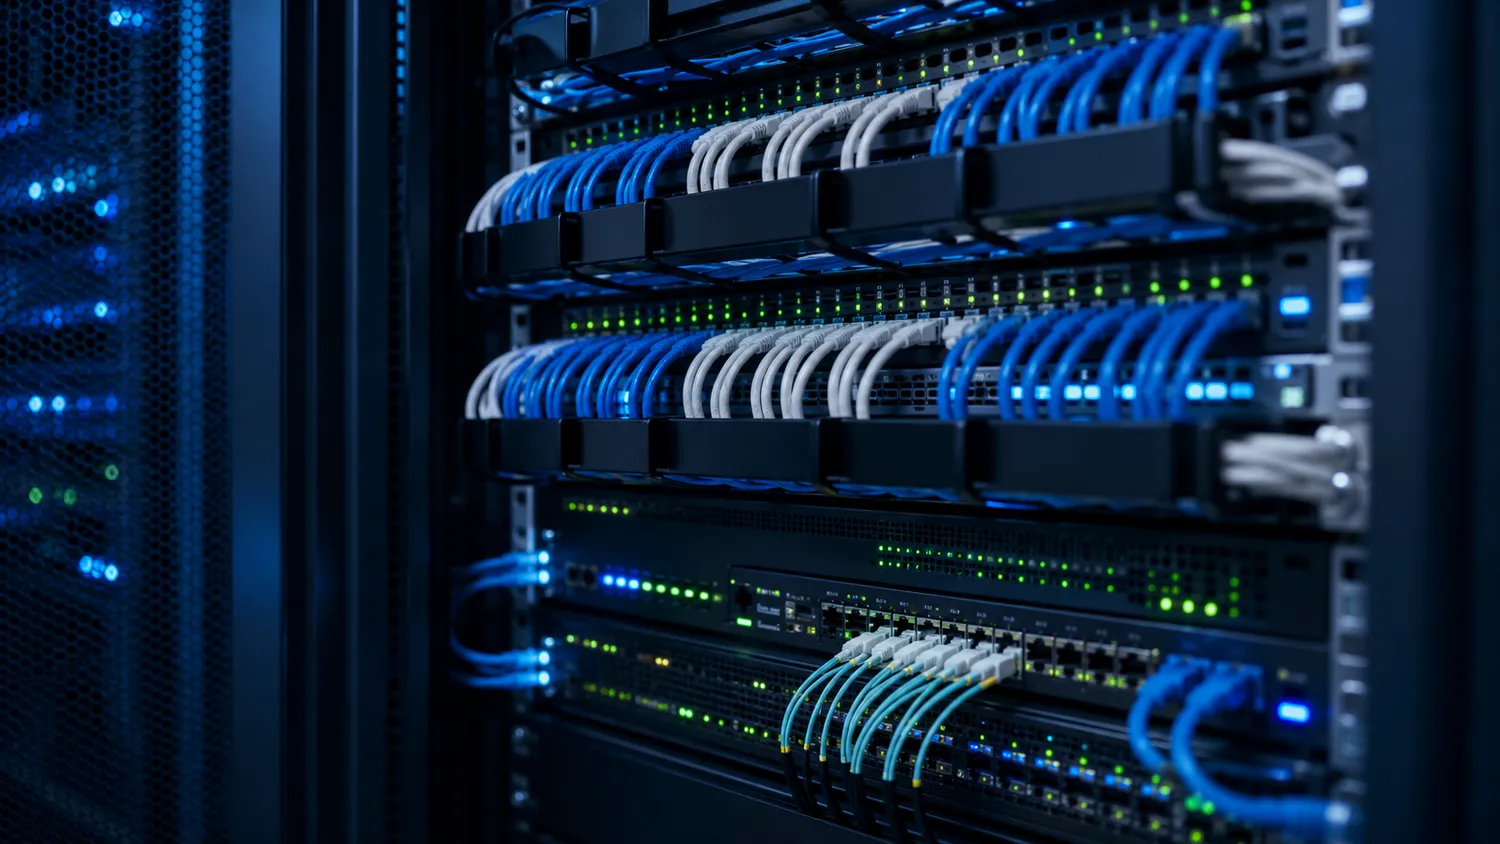
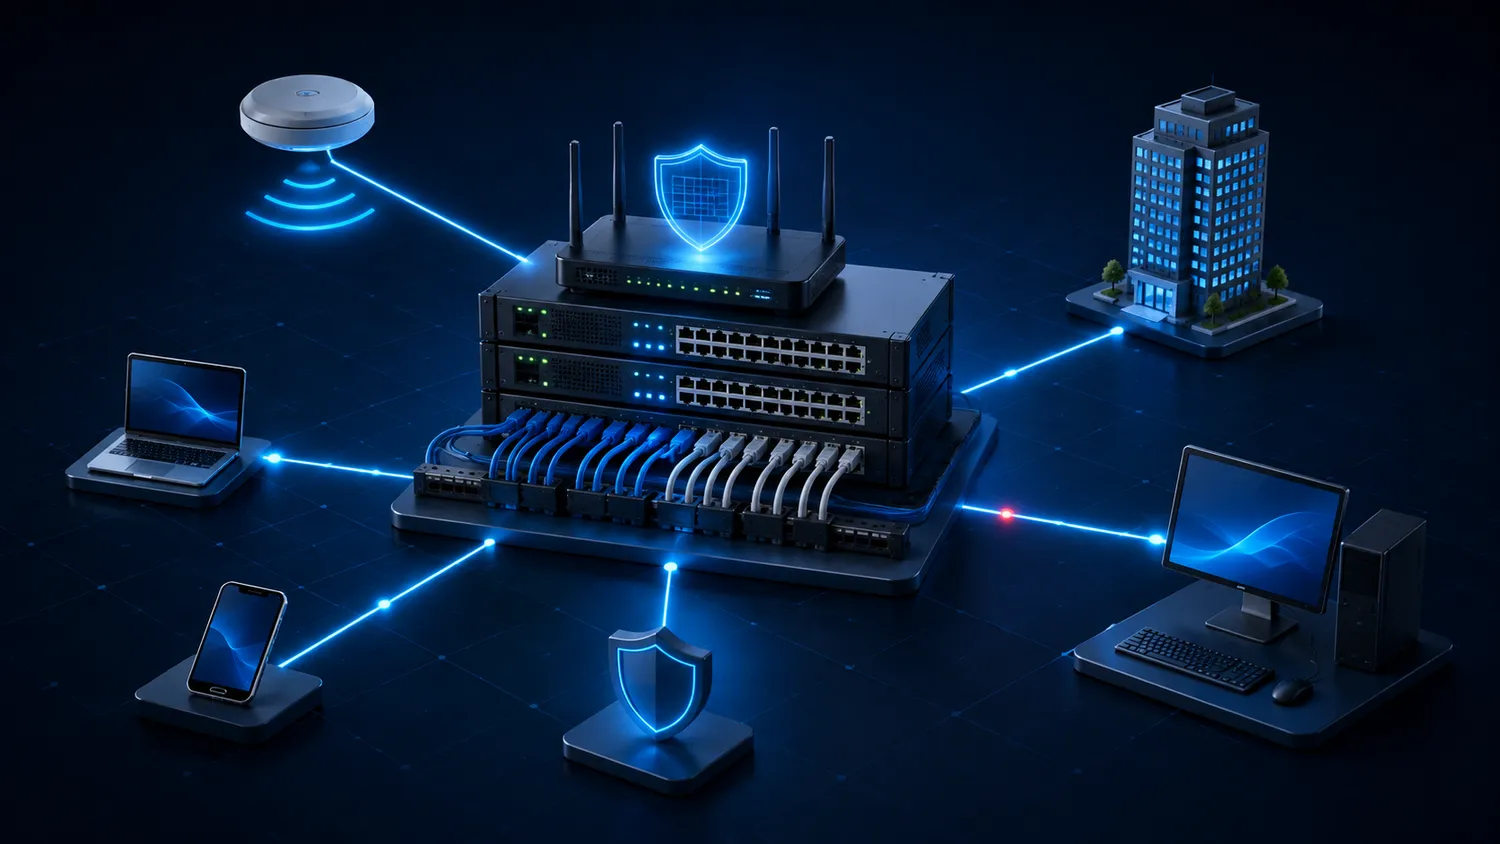
solution pics updated and positioning of services pics are fixed

diff --git a/public/style.css b/public/style.css
@@ -1637,7 +1637,8 @@ h2 {
 }
 
 .detail-hero-img {
-  height: 100%;
+  width: 100%;
+  aspect-ratio: 16 / 10;
   min-height: 260px;
   border-radius: 12px;
   overflow: hidden;
